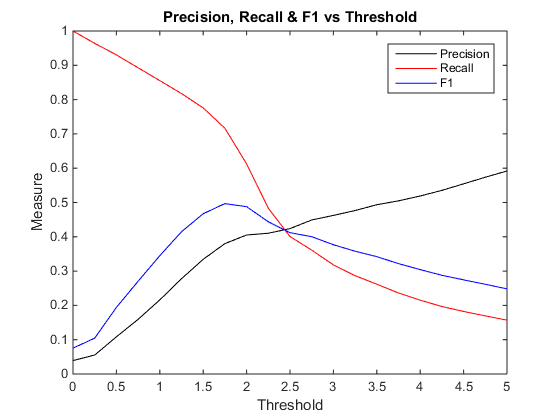
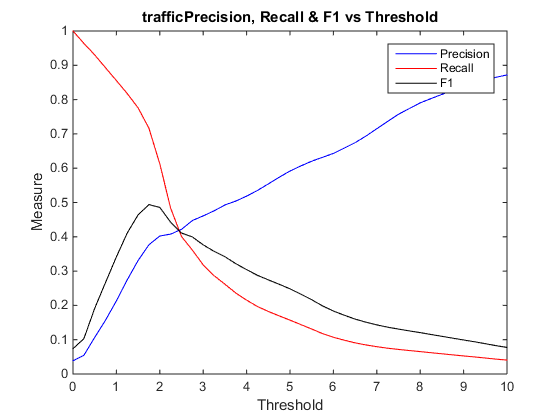
datos

diff --git a/utils/alpha_sweep.m b/utils/alpha_sweep.m
@@ -1,5 +1,5 @@
 %function for sweeping through several thresholds to compare performance
-function [time] = alpha_sweep(alpha_vect, mu_matrix, sigma_matrix, range_images, start_img, dirInputs, input_files, background, foreground, dirGT)
+function [time] = alpha_sweep(data, alpha_vect, mu_matrix, sigma_matrix, range_images, start_img, dirInputs, input_files, background, foreground, dirGT)
 tic
 
 precision = zeros(1,size(alpha_vect,2));
@@ -51,25 +51,27 @@ end
 
 time = toc;
 
+save(strcat(data,'_task1_results.mat'),'TP_','TN_','FP_','FN_', 'precision', 'recall', 'F1','alpha_vect');
+
 x= alpha_vect;
 figure(1)
 plot(x, transpose(precision), 'b', x, transpose(recall), 'r',  x, transpose(F1), 'k');
-title('Precision, Recall & F1 vs Threshold')
-xlabel('Threshold')
-ylabel('Measure')
+title(strcat(data,'Precision, Recall & F1 vs Threshold for dataset ',data));
+xlabel('Threshold');
+ylabel('Measure');
 legend('Precision','Recall','F1');
 
 figure(2)
 plot(x, transpose(TP_),'b', x, transpose(TN_),'g', x, transpose(FP_),'r', x, transpose(FN_));
-title('TP, TN, FP & FN vs Threshold')
-xlabel('Threshold')
-ylabel('Pixels')
+title(strcat('TP, TN, FP & FN vs Threshold for',' ',data));
+xlabel('Threshold');
+ylabel('Pixels');
 legend('TP','TN','FP','FN');
 
 figure(3)
 plot(recall, transpose(precision), 'g', recall, transpose(precision .* recall),'b');
-title('Recall vs Precision & AUC');
-xlabel('Recall')
-ylabel('Precision')
+title(strcat('Recall vs Precision & AUC for dataset ',data));
+xlabel('Recall');
+ylabel('Precision');
 legend('Recall vs Precision','Area under the curve');
 end

diff --git a/week2/task1.m b/week2/task1.m
@@ -8,7 +8,7 @@ addpath('../week2');
 
 %Datasets to use 'highway' , 'fall' or 'traffic'
 %Choose dataset images to work on from the above:
-data = 'highway';
+data = 'traffic';
 
 [start_img, range_images, dirInputs, dirGT] = load_data(data);
 
@@ -21,9 +21,14 @@ foreground = 255;
 
 [mu_matrix, sigma_matrix] = train_background(start_img, range_images, input_files, dirInputs);
 
+filenameA = strcat(data,'_mu.png');
+filenameB = strcat(data,'_sigma.png');
+imwrite(mat2gray(mu_matrix),filenameA);
+imwrite(mat2gray(sigma_matrix),filenameB);
+
 %Alpha parameter for sigma weight in background comparison (for frame by
 %frame plot set alpha to scalar, for threshold sweep set alpha to vector)
-alpha_vect = 0:0.25:5;
+alpha_vect = 0:0.25:10;
 % alpha_vect = 2;
 
 
@@ -31,6 +36,6 @@ alpha_vect = 0:0.25:5;
 % single_alpha(alpha_vect, mu_matrix, sigma_matrix, range_images, start_img, dirInputs, input_files, background, foreground, dirGT);
 
 %Use when alpha_vect is a vector of thresholds
-[time] = alpha_sweep(alpha_vect, mu_matrix, sigma_matrix, range_images, start_img, dirInputs, input_files, background, foreground, dirGT)
+[time] = alpha_sweep(data, alpha_vect, mu_matrix, sigma_matrix, range_images, start_img, dirInputs, input_files, background, foreground, dirGT)
 
 end

diff --git a/week2/for_printing.m b/week2/for_printing.m
@@ -1,0 +1,6 @@
+figure(1)
+plot(alpha_vect, transpose(F1_fall), 'g', alpha_vect, transpose(F1_traffic),'r',alpha_vect, transpose(F1_highway));
+title('F1 for the 3 datasets');
+xlabel('alpha');
+ylabel('F1 measure');
+legend('fall','traffic','highway');
